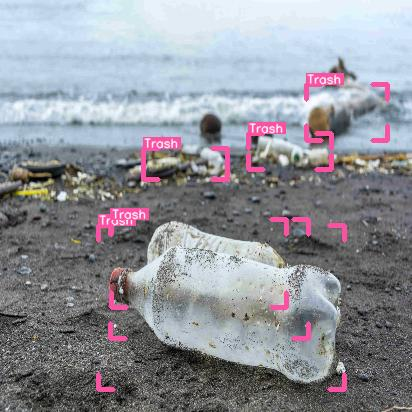
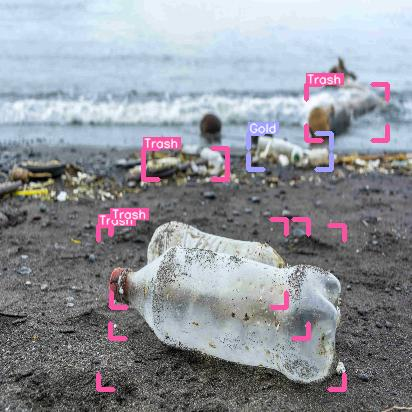
adding details about top corner annotations

Changed region(s): [[0.5825, 0.2913, 0.699, 0.4369], [0.7573, 0.2913, 0.8155, 0.4369]]

diff --git a/dep.py b/dep.py
@@ -23,6 +23,7 @@ import cv2
 import supervision as sv
 from ultralytics import YOLOv10
 
+
 def get_filename(fpath):
     return fpath.replace('\\', '/').rsplit('/', 1)[-1]
 def get_ext(fpath):
@@ -30,7 +31,11 @@ def get_ext(fpath):
     per_index = fname.index('.')
     ext = fname[per_index + 1:].lower()
     return ext
-def ann_img_helper(im: Image, model, label_annotator = sv.LabelAnnotator(text_scale = 0.4, text_padding = 1), bounding_box_annotator = sv.BoxCornerAnnotator(), verbose = False, conf_level = 0.05, name_labels = True) -> np.ndarray:
+
+def relu(x):
+    return max(x, 0)
+
+def ann_img_helper(im: Image, model, label_annotator = sv.LabelAnnotator(text_scale = 0.4, text_padding = 1), bounding_box_annotator = sv.BoxCornerAnnotator(), verbose = False, conf_level = 0.05, name_labels = True, gold_class = 'Trash', cl_id = 10, find_one = True, pixel_threshold = 5) -> np.ndarray:
     # print("Annotating...")
     fix_img = im.convert('RGB')
     np_img = np.array(fix_img)
@@ -42,9 +47,27 @@ def ann_img_helper(im: Image, model, label_annotator = sv.LabelAnnotator(text_sc
         conf_array = np.array(results.boxes.conf.cpu())
         used_labels = [str(round(x * 100)) + '%' for x in conf_array]
     
+
+
     tot_time = sum([x for x in results.speed.values()])
     
     detections = sv.Detections.from_ultralytics(results)
+    for i, el1 in enumerate(detections.xyxy):
+        for j, el2 in enumerate(detections.xyxy):
+            if i >= j:
+                continue
+            if relu(el1[0] - el2[0]) + relu(el1[1] - el2[1]) < pixel_threshold:
+                print("TOP CORNERS TOO CLOSE", el1, el2)
+            elif relu(el1[2] - el2[2]) + relu(el1[3] - el2[3]) < pixel_threshold:
+                print(el1[2], el2[2])
+                print("BOTTOM CORNERS TOO CLOSE", el1, el2)
+    if find_one:
+        for cl_no, cl in enumerate(detections.data['class_name']):
+            if cl == 'Trash':
+                detections.data['class_name'][cl_no] = 'Gold'
+                detections.class_id[cl_no] = len(np.unique(detections.class_id)) + 1
+                break
+
     annotated_image = bounding_box_annotator.annotate(
         scene=np_img, detections=detections)
     num_oysters = detections.xyxy.shape[0]

diff --git a/main.py b/main.py
@@ -10,9 +10,10 @@ VIDEO_NAME = "trash v2.mp4"
 
 ##############################################
 
-ann_video(VIDEO_NAME, model_YOLO, .1)
+# ann_video(VIDEO_NAME, model_YOLO, .1)
 
 # pass in image
 
 IMAGE_NAME = "trash.jpg"
-ann_img(IMAGE_NAME, model_YOLO)
+out = ann_img(IMAGE_NAME, model_YOLO)
+print(out[3])